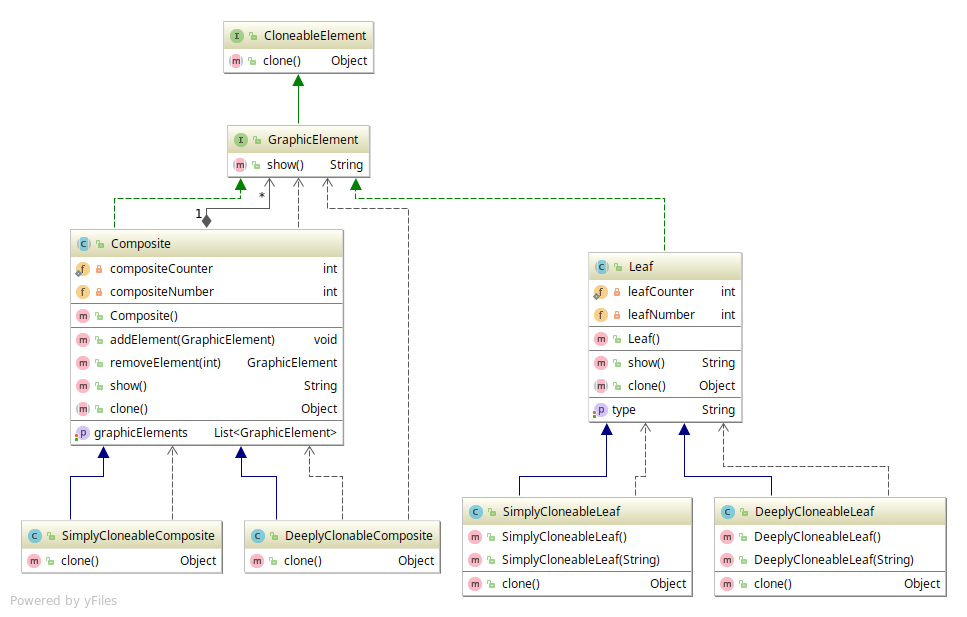
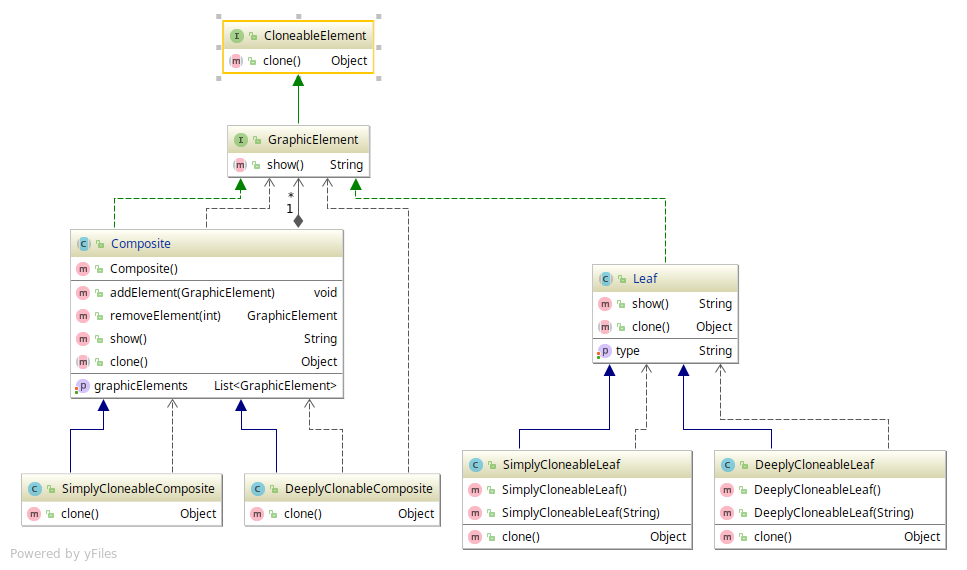
Updated labwork8.

diff --git a/test/lab8/Test.java b/test/lab8/Test.java
@@ -17,8 +17,10 @@ public class Test {
         composite2.addElement(composite1);
         composite2.addElement(new SimplyCloneableLeaf("leaf3"));
 
+        System.out.println("________________________________________________________________");
         System.out.println("composite2:\n" + composite2.show());
         System.out.println("composite2 (clone):\n" + ((Composite) composite2.clone()).show());
+        System.out.println("----------------------------------------------------------------");
 
 
         // Deeply cloneable structure:
@@ -29,8 +31,10 @@ public class Test {
         composite4.addElement(composite3);
         composite4.addElement(new DeeplyCloneableLeaf("leaf6"));
 
+        System.out.println("________________________________________________________________");
         System.out.println("composite4:\n" + composite4.show());
         System.out.println("composite4 (cloned):\n" + ((Composite) composite4.clone()).show());
+        System.out.println("----------------------------------------------------------------");
 
 
         // Deeply and Simply cloneable structure:
@@ -41,8 +45,10 @@ public class Test {
         composite6.addElement(composite5);
         composite6.addElement(new DeeplyCloneableLeaf("leaf9"));
 
+        System.out.println("________________________________________________________________");
         System.out.println("composite6:\n" + composite6.show());
         System.out.println("composite6 (cloned):\n" + ((Composite) composite6.clone()).show());
+        System.out.println("----------------------------------------------------------------");
     }
 
 }

diff --git a/src/com/lab111/labwork8/Composite.java b/src/com/lab111/labwork8/Composite.java
@@ -15,19 +15,14 @@ import java.util.List;
  */
 public abstract class Composite implements GraphicElement {
 
-    private static int compositeCounter = 0;
-    private int compositeNumber;
-
     private List<GraphicElement> graphicElements;
 
     /**
      * Default constructor override.
-     * Assigns graphicElements List and increments
-     * Composite class objects static counter.
+     * Assigns graphicElements List.
      * */
     public Composite() {
         graphicElements = new ArrayList<>();
-        compositeNumber = compositeCounter++;
     }
 
     /**
@@ -84,7 +79,7 @@ public abstract class Composite implements GraphicElement {
      */
     @Override
     public String show() {
-        StringBuilder stringBuilder = new StringBuilder("Composite(" + compositeNumber + ") {");
+        StringBuilder stringBuilder = new StringBuilder("Composite(" + this.hashCode() + ") {");
         for (int i = 0; i < graphicElements.size(); i++) {
             stringBuilder.append(graphicElements.get(i).show());
             if (i < graphicElements.size() - 1) {

diff --git a/src/com/lab111/labwork8/Leaf.java b/src/com/lab111/labwork8/Leaf.java
@@ -12,18 +12,7 @@ package com.lab111.labwork8;
  */
 public abstract class Leaf implements GraphicElement {
 
-    private static int leafCounter = 0;
-    private int leafNumber;
-
     private String type;
-
-    /**
-     * Default constructor override.
-     * Increments Leaf class objects static counter.
-     * */
-    public Leaf() {
-        leafNumber = leafCounter++;
-    }
 
     /**
      * Getter of type field.
@@ -50,7 +39,7 @@ public abstract class Leaf implements GraphicElement {
      */
     @Override
     public String show() {
-        return "Leaf(" + leafNumber + ") {" + type + "}";
+        return "Leaf(" + this.hashCode() + ") {" + type + "}";
     }
 
     /**
